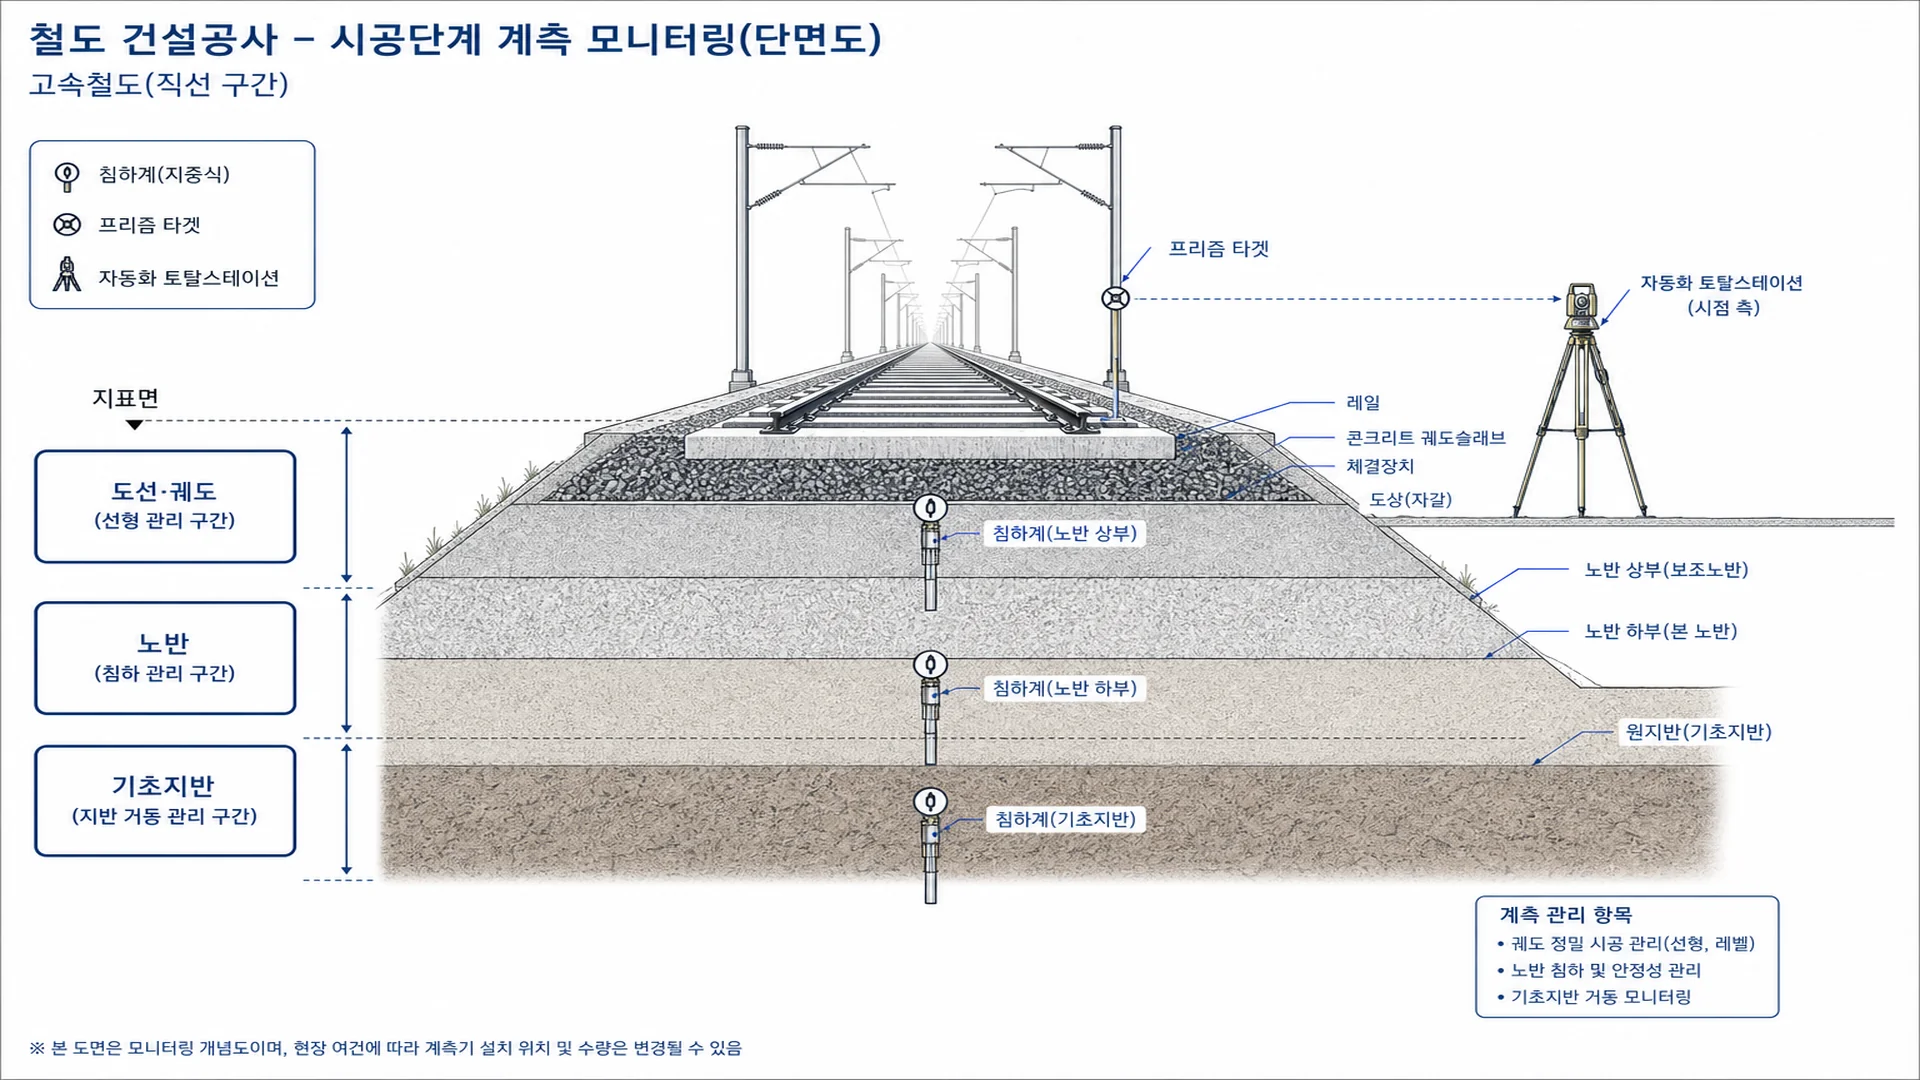
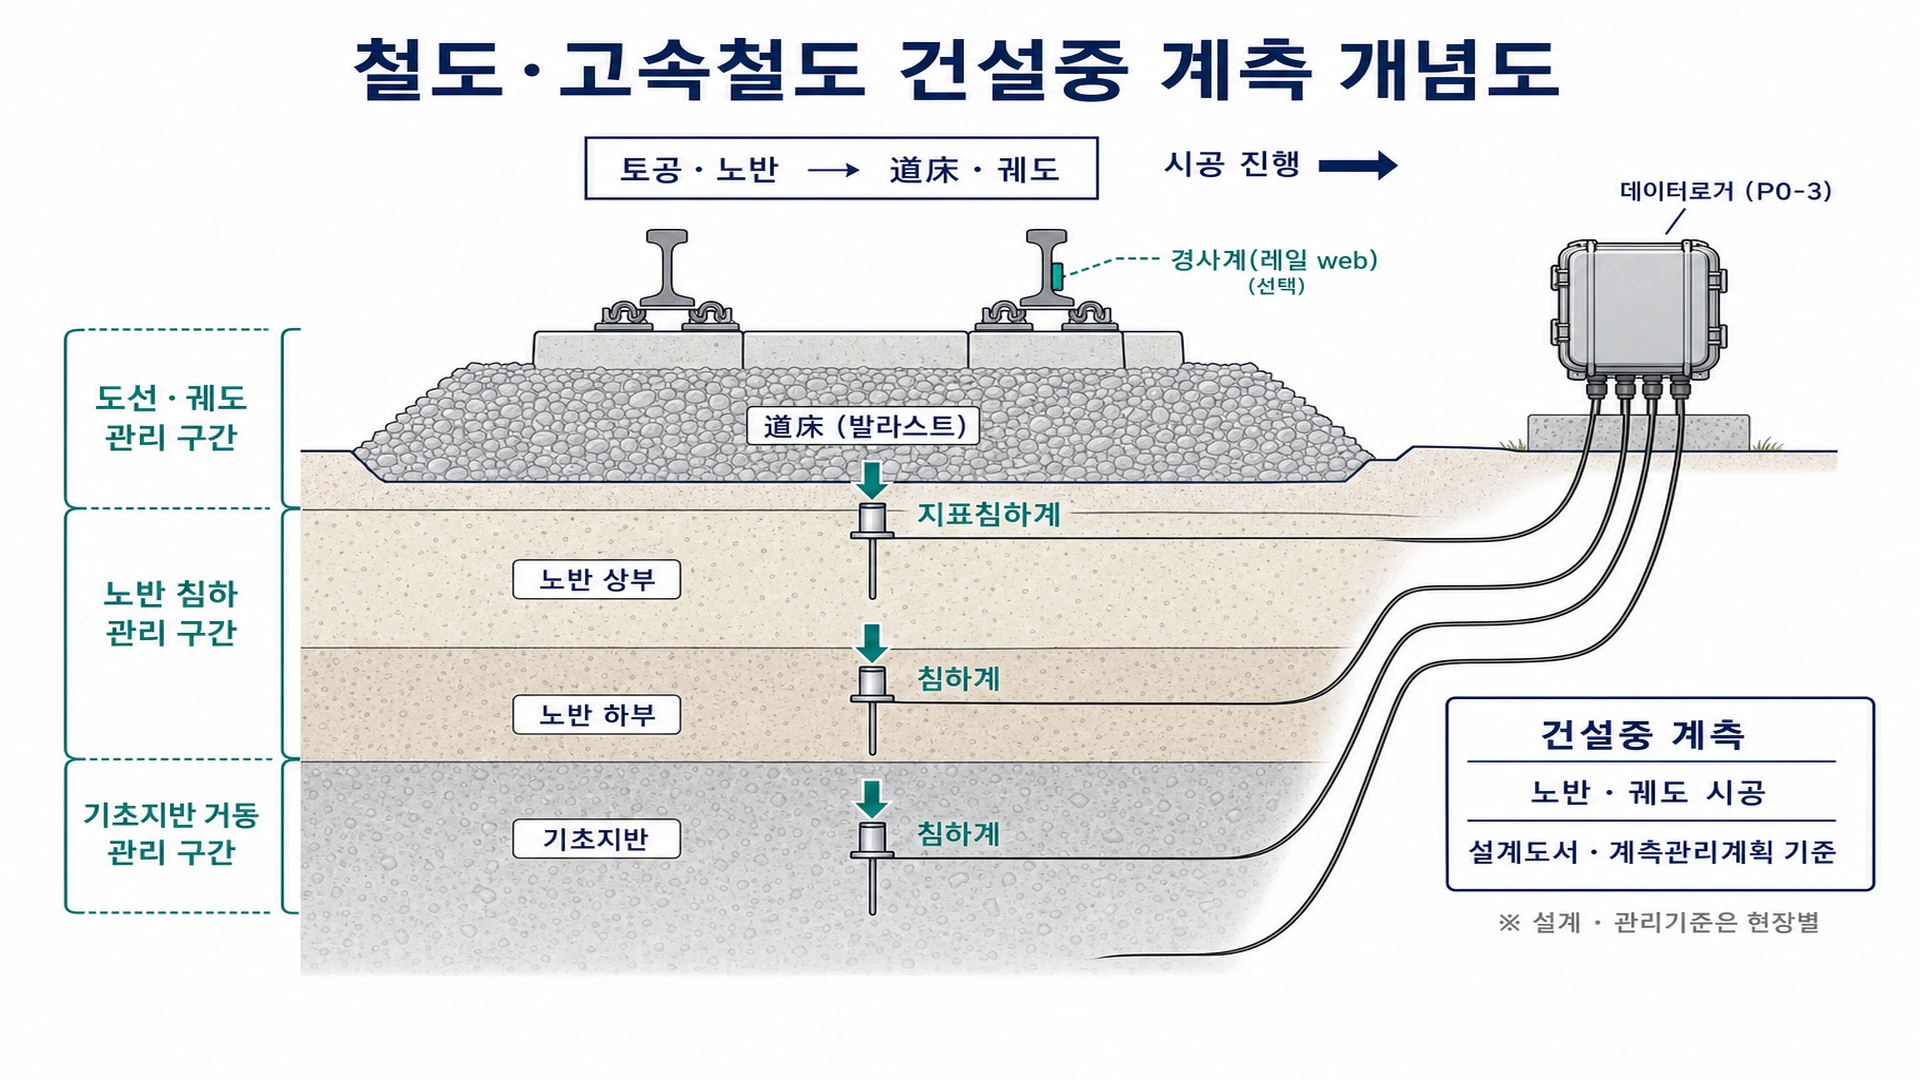
git-sync: newest-wins auto-sync (2026-06-30T12:19:48.498Z)

diff --git a/docs/IMAGE_REVIEW_LOG.md b/docs/IMAGE_REVIEW_LOG.md
@@ -2249,7 +2249,7 @@
 | 관련 계측기 | 시스템/계측방식 |
 | 검수 등급 | **PASS** |
 | status | reviewed |
-| 기술 오류 | P0 Sprint2 v2 — 5단계 계층·포함관계 · redline v2 · Phase D W10 — redline v2 PASS · docs/113 · 179 §9 caption sync 2026-06-30 · pixel 5단계 ladder REGENERATE 권장(캡션만 정합) · 179 §9 caption sync 2026-06-30 · pixel 5단계 ladder REGENERATE 권장(캡션만 정합) · 179 §9 caption sync 2026-06-30 · pixel 5단계 ladder REGENERATE 권장(캡션만 정합) · 179 §9 caption sync 2026-06-30 · pixel 5단계 ladder REGENERATE 권장(캡션만 정합) · 179 §9 caption sync 2026-06-30 · pixel 5단계 ladder REGENERATE 권장(캡션만 정합) · 179 §9 caption sync 2026-06-30 · pixel 5단계 ladder REGENERATE 권장(캡션만 정합) · 179 §9 caption sync 2026-06-30 · pixel 5단계 ladder REGENERATE 권장(캡션만 정합) |
+| 기술 오류 | v7 ai-reviewed MOD-01 — 4행 병렬 블록(179 §1.1)·진화 사다리 제거 · docs/220 |
 | 설치 위치 오류 | — |
 | 방향 오류 | — |
 | 용어 오류 | — |